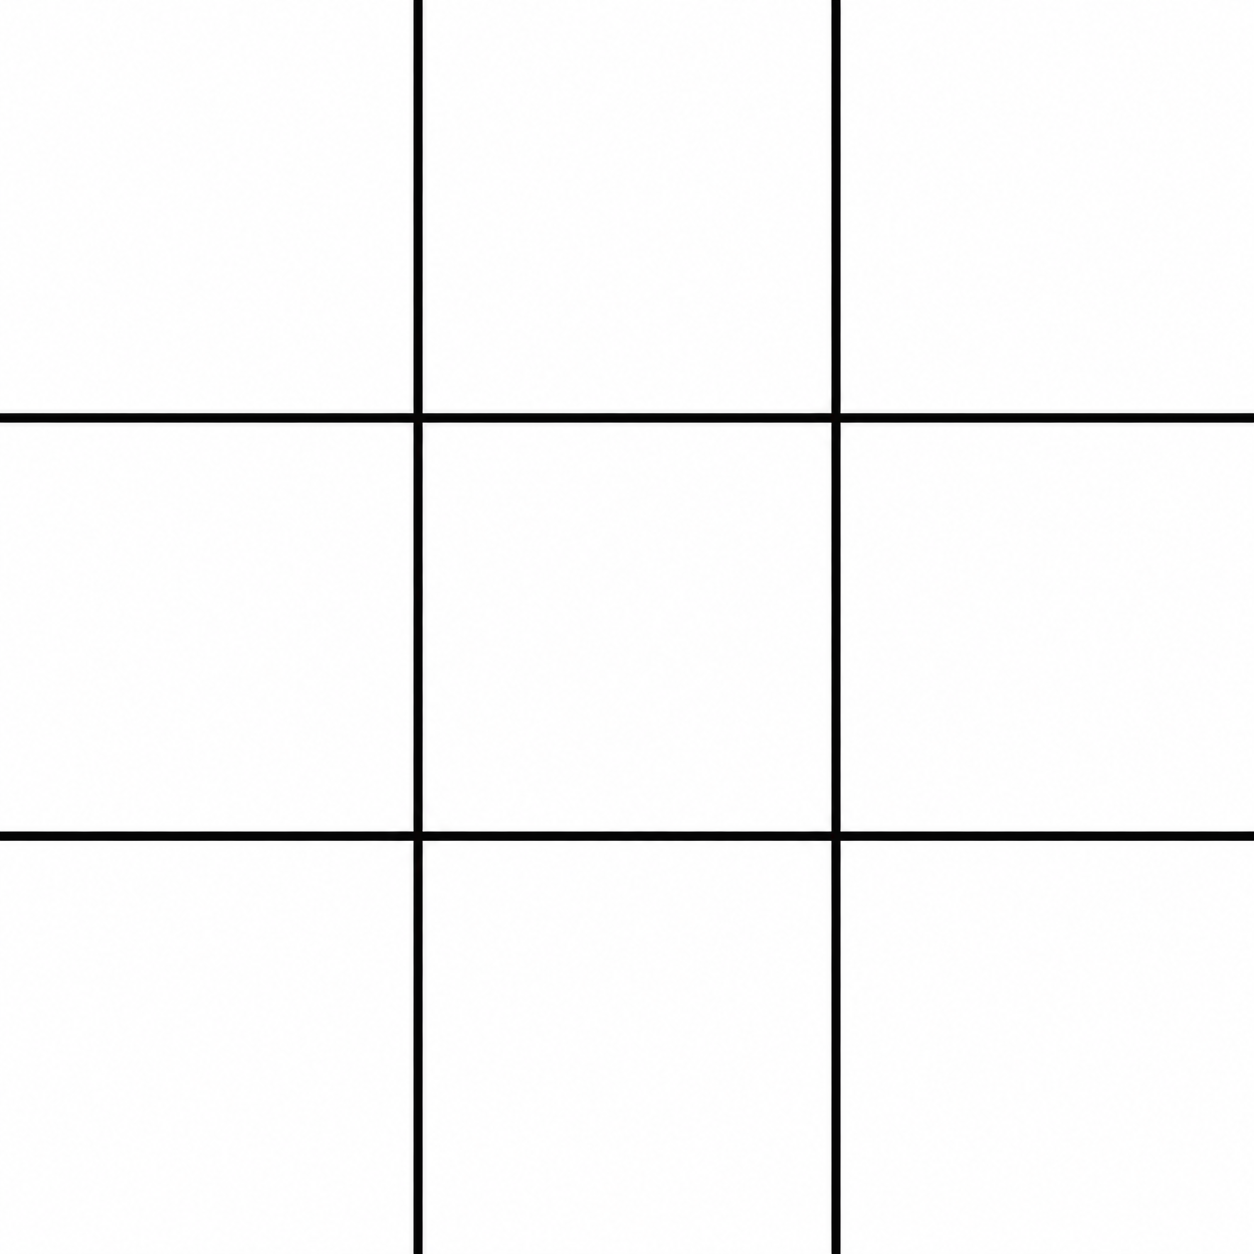
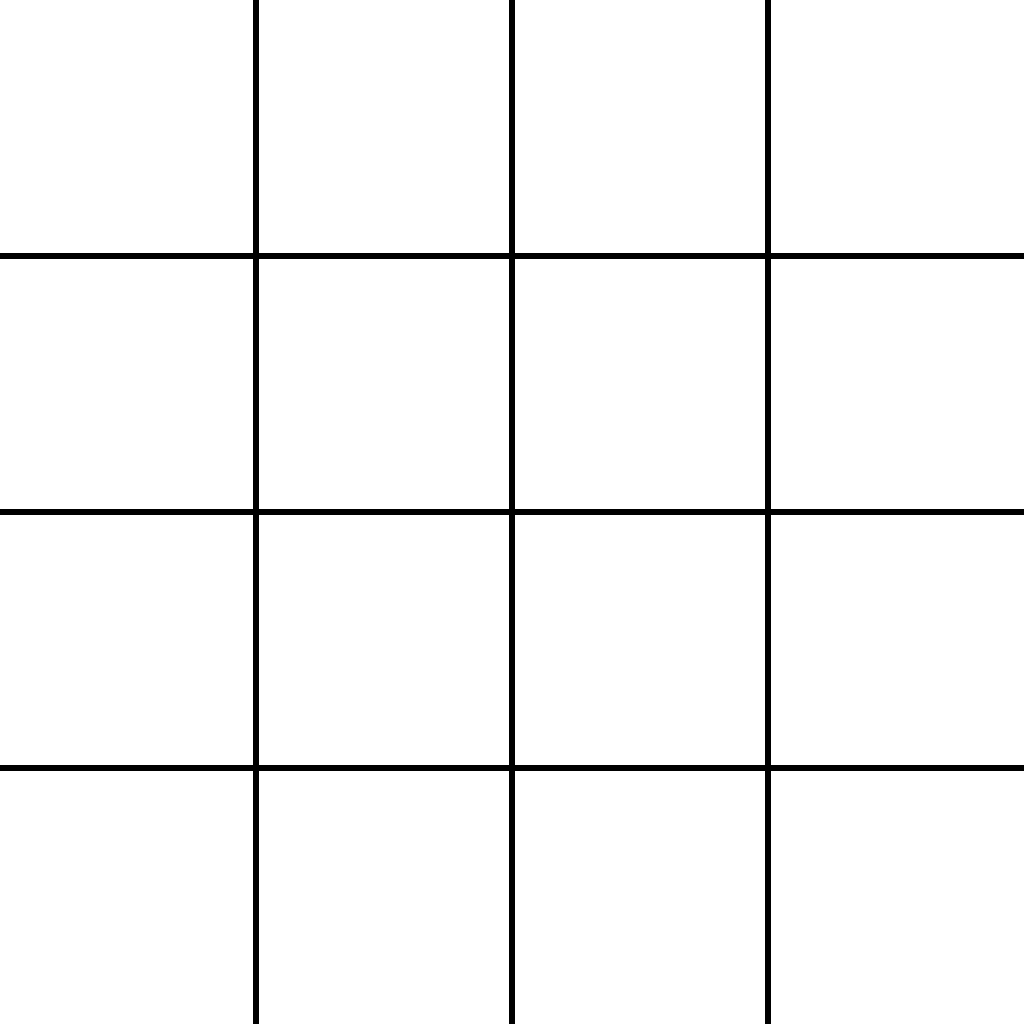
I fixed the new 4x4 version.

diff --git a/client.py b/client.py
@@ -317,7 +317,7 @@ class Surfaces:
     )
 
 class GameContext:
-    board_state = [[None, None, None], [None, None, None], [None, None, None]]
+    board_state = [[None for _ in range(piece_fit)] for _ in range(piece_fit)]
     character = None
     turn = "o"
 
@@ -411,8 +411,8 @@ async def main():
                     
                     row, col = (rel_x // piece_size, rel_y // piece_size)
 
-                    row = max(0, min(2, row))
-                    col = max(0, min(2, col))
+                    row = max(0, min(piece_fit - 1, row))
+                    col = max(0, min(piece_fit - 1, col))
 
                     if GameContext.character is None:
                         GameContext.moving_piece = row, col
@@ -483,7 +483,7 @@ async def main():
                 GameContext.disallowed = True
             
             elif event.type == "restart":
-                GameContext.board_state = [[None, None, None], [None, None, None], [None, None, None]]
+                GameContext.board_state = [[None for _ in range(piece_fit)] for _ in range(piece_fit)]
                 GameContext.winner = None
                 GameContext.win_ff = False
                 GameContext.moving_piece = None

diff --git a/server.py b/server.py
@@ -301,7 +301,7 @@ class GameContext:
         "x": None
     }
     turn = "o"
-    board_state = [[None, None, None], [None, None, None], [None, None, None]]
+    board_state = [[None for _ in range(piece_fit)] for _ in range(piece_fit)]
 
     winner = None
     win_time = None
@@ -322,7 +322,7 @@ class GameContext:
 
     @classmethod
     def reset(cls):
-        cls.board_state = [[None, None, None], [None, None, None], [None, None, None]]
+        cls.board_state = [[None for _ in range(piece_fit)] for _ in range(piece_fit)]
         cls.piece_counts = {"o": 0, "x": 0}
         cls.turn = "o"
         cls.winner = None